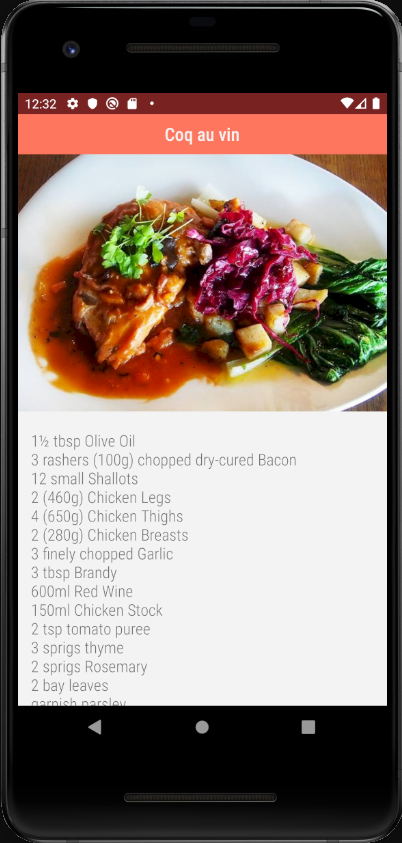
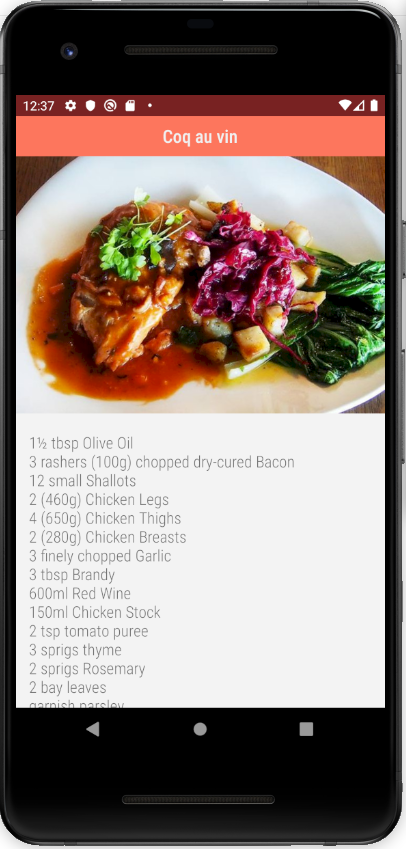
App prints

diff --git a/README.md b/README.md
@@ -1,6 +1,8 @@
-# MealTimeApp
+# Meal Time App
 
 An android app that help you to find a recipe for dinner. This application is powered by [TheMealDB](https://www.themealdb.com/).
+
+![image1](https://raw.githubusercontent.com/endopedro/MealTimeApp/master/prints/app1.png) ![image2](https://raw.githubusercontent.com/endopedro/MealTimeApp/master/prints/app2.png)
 
 ## Installation
 
